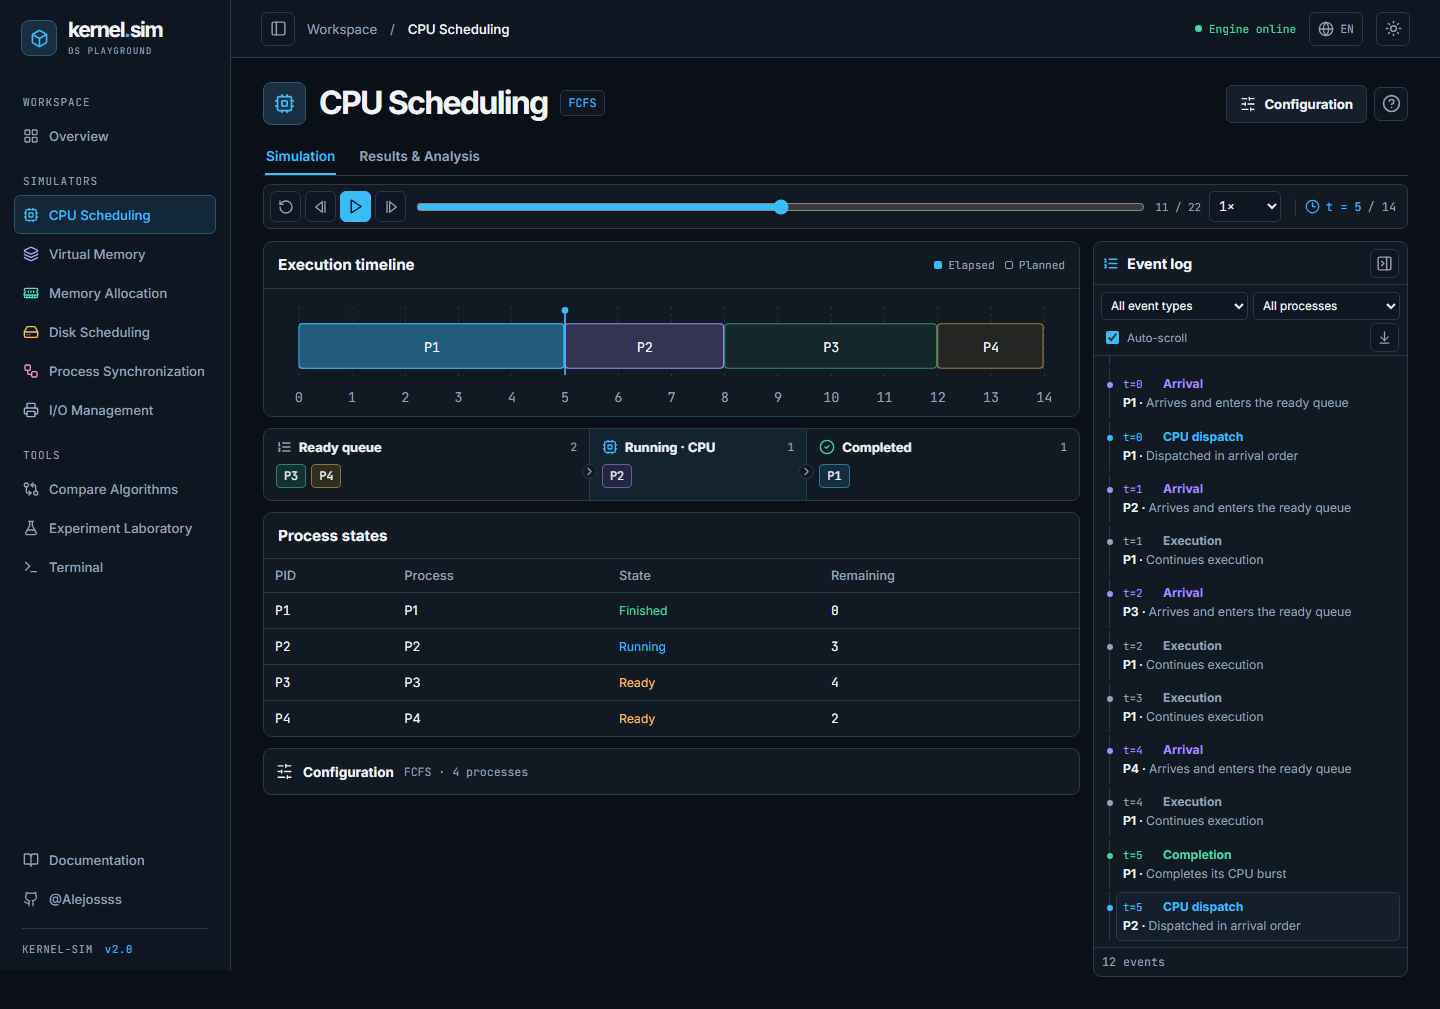
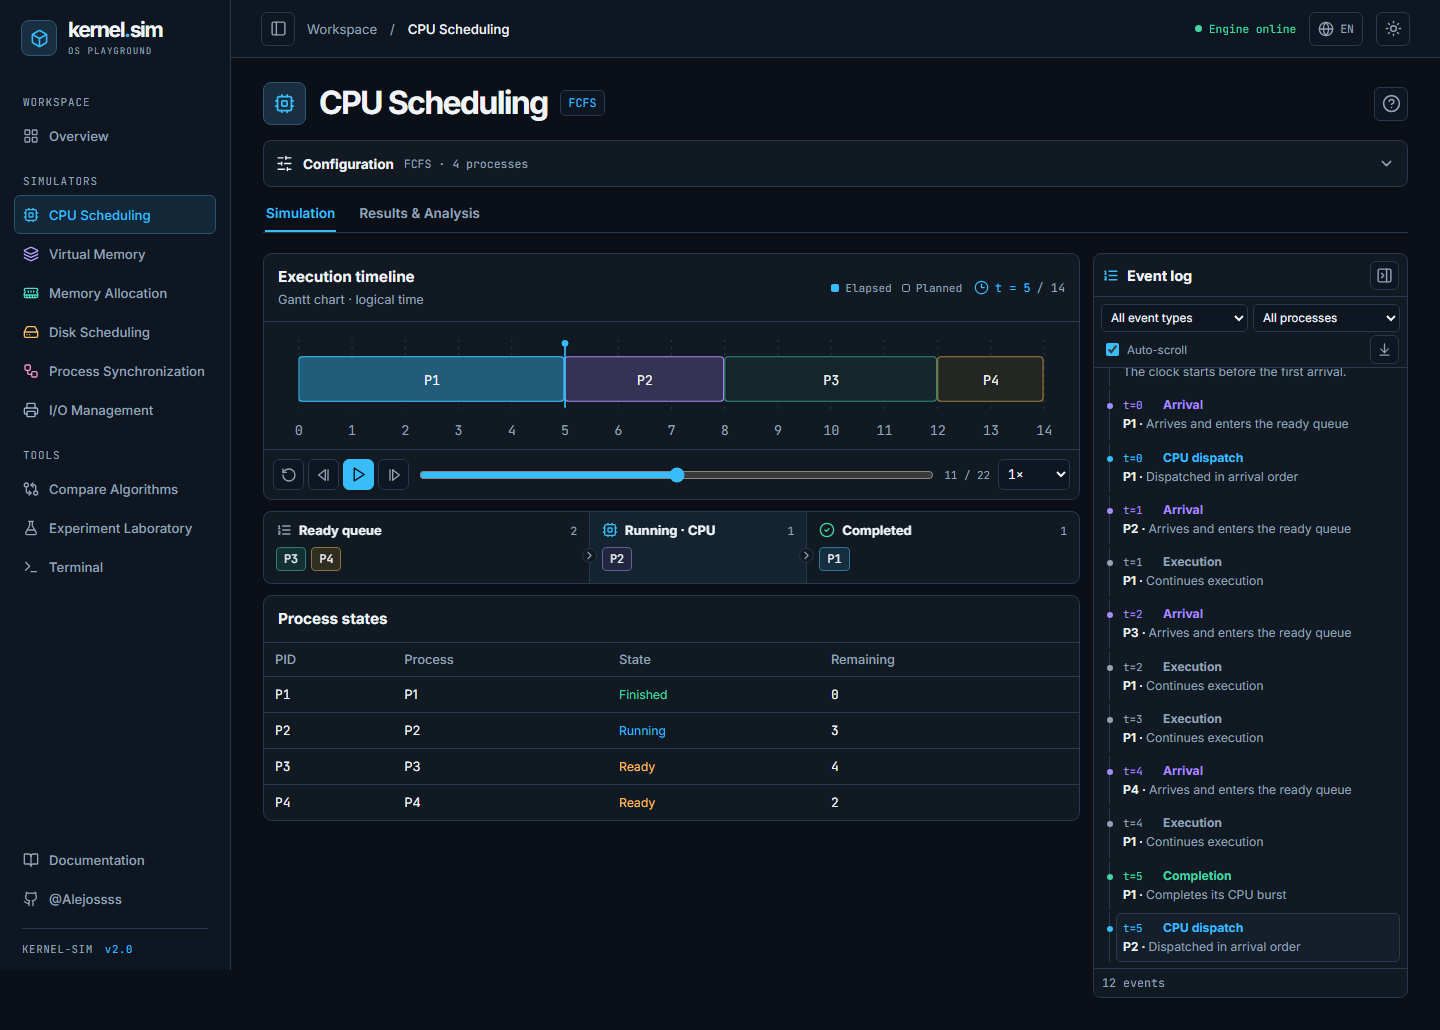
Adjust CPU configuration, playback layout and completion notice

diff --git a/web/src/views/Cpu.vue b/web/src/views/Cpu.vue
@@ -2,7 +2,7 @@
 import { computed, nextTick, ref, watch } from 'vue'
 import { useRoute, useRouter } from 'vue-router'
 import { storeToRefs } from 'pinia'
-import { Activity, CircleHelp, Clock3, Cpu, SlidersHorizontal } from 'lucide-vue-next'
+import { Activity, ChevronDown, CircleHelp, Clock3, Cpu, SlidersHorizontal } from 'lucide-vue-next'
 import Panel from '../components/Panel.vue'
 import Gantt from '../components/Gantt.vue'
 import PlaybackBar from '../components/PlaybackBar.vue'
@@ -27,6 +27,7 @@ const logCompact = ref(false)
 const tour = ref<InstanceType<typeof GuidedTour>>()
 const results = computed(() => route.query.view === 'results')
 const configuration = ref<HTMLElement>()
+const configurationToggle = ref<HTMLButtonElement>()
 const tablist = ref<HTMLElement>()
 const noProcesses: number[] = []
 const colors = ['#38bdf8','#a78bfa','#34d399','#fbbf24','#f472b6','#fb923c']
@@ -36,6 +37,7 @@ const completed = computed(() => snapshot.value?.processes.filter(p => p.status 
 const finished = computed(() => Boolean(trace.value && cursor.value === last.value))
 const animationDuration = computed(() => reduced.value ? 0 : playing.value ? Math.min(400,380/speed.value) : 180)
 const algorithm = computed(() => workload.value.policy === 4 ? t('Priority','Prioridad') : policies[workload.value.policy])
+const draftAlgorithm = computed(() => input.value.policy === 4 ? t('Priority','Prioridad') : policies[input.value.policy])
 const rows = computed(() => workload.value.jobs.map(job => ({
   job,
   state:snapshot.value?.processes.find(p => p.pid === job.pid),
@@ -83,16 +85,18 @@ async function onTabKey(event: KeyboardEvent) {
 }
 function closeEditor() {
   if (configuration.value?.contains(document.activeElement)) {
-    document.getElementById('configuration-toggle')?.focus({ preventScroll:true })
+    configurationToggle.value?.focus({ preventScroll:true })
   }
   editor.value = false
 }
-async function toggleEditor() {
-  if (editor.value && !results.value) return closeEditor()
-  await setView('simulation')
-  editor.value = true
+function toggleEditor() {
+  if (editor.value) closeEditor()
+  else editor.value = true
+}
+async function viewCompletedTrace() {
+  await setView('results')
   await nextTick()
-  configuration.value?.scrollIntoView({ block:'start' })
+  tablist.value?.querySelector<HTMLElement>('#results-tab')?.focus()
 }
 const steps: TourStep[] = [
   {
@@ -114,6 +118,7 @@ const steps: TourStep[] = [
   {
     target:'[data-tour="playback"]', title:() => t('Play, pause or step','Reproduce, pausa o avanza por pasos'),
     body:() => t('Play or step forward to inspect an event before continuing. The slider can jump to any event in the trace.','Reproduce o avanza un paso para inspeccionar un evento antes de continuar. El deslizador permite saltar a cualquier evento.'),
+    enter:async () => { if (results.value) await setView('simulation') },
     canAdvance:() => !trace.value || cursor.value > 0,
     action:{ label:() => playing.value ? t('Pause','Pausar') : t('Try playback','Probar reproducción'), run:toggle },
   },
@@ -145,23 +150,34 @@ async function startTour() {
 </script>
 
 <template>
-  <div class="page cpu-page refined-cpu">
+  <div class="page cpu-page refined-cpu" :class="{ 'showing-results':results }">
     <header class="cpu-titlebar" data-tour="title">
       <span class="module-icon"><Cpu :size="21" /></span>
       <div class="cpu-title"><h1>{{ t('CPU Scheduling','Planificación de CPU') }}</h1>
         <span class="policy-chip mono" :title="t(...descriptions[workload.policy])">{{ algorithm }}<template v-if="workload.policy===3"> · q={{ workload.quantum }}</template></span>
       </div>
       <div class="cpu-title-actions">
-        <button id="configuration-toggle" class="button" :aria-expanded="editor && !results" aria-controls="cpu-config" @click="toggleEditor"><SlidersHorizontal :size="16" />{{ t('Configuration','Configuración') }}<i v-if="dirty" class="draft-dot" /></button>
         <button class="icon-button" :aria-label="t('CPU help and tutorial','Ayuda y tutorial de CPU')" :title="t('CPU help and tutorial','Ayuda y tutorial de CPU')" @click="startTour"><CircleHelp :size="19" /></button>
       </div>
     </header>
+    <section v-show="!results" id="cpu-config" class="configuration-drawer" :class="{ 'configuration-open':editor }" ref="configuration">
+      <button ref="configurationToggle" id="configuration-toggle" type="button" class="configuration-summary" :aria-expanded="editor" aria-controls="configuration-fields" @click="toggleEditor">
+        <SlidersHorizontal :size="17" />
+        <strong>{{ t('Configuration','Configuración') }}</strong>
+        <span class="mono">{{ draftAlgorithm }}<template v-if="input.policy===3"> · q={{ input.quantum }}</template> · {{ input.jobs.length }} {{ t('processes','procesos') }}</span>
+        <span v-if="dirty" class="draft-label">{{ t('Unapplied changes','Cambios sin aplicar') }}</span>
+        <ChevronDown class="configuration-chevron" :size="17" aria-hidden="true" />
+      </button>
+      <div class="configuration-grid" id="configuration-fields" :inert="!editor">
+        <div class="configuration-inner"><WorkloadForm :color="color" @apply="applyWorkload" /></div>
+      </div>
+    </section>
     <div class="cpu-sticky">
       <div class="view-tabs" ref="tablist" role="tablist" :aria-label="t('CPU views','Vistas de CPU')" @keydown="onTabKey">
         <button id="simulation-tab" role="tab" :aria-selected="!results" :tabindex="results ? -1 : 0" aria-controls="simulation-view" @click="setView('simulation')">{{ t('Simulation','Simulación') }}</button>
         <button id="results-tab" data-tour="results" role="tab" :aria-selected="results" :tabindex="results ? 0 : -1" aria-controls="results-view" @click="setView('results')">{{ t('Results & Analysis','Resultados y análisis') }}</button>
       </div>
-      <div class="cpu-transport" data-tour="playback">
+      <div v-if="results" class="cpu-transport">
         <PlaybackBar v-model:speed="speed" :disabled="!trace" :last="last" :cursor="cursor" :playing="playing" @seek="seek" @toggle="toggle" />
         <span class="clock mono" :title="t('Logical time','Tiempo lógico')"><Clock3 :size="15" />t = {{ time }}<span class="muted"> / {{ trace?.duration ?? '—' }}</span></span>
       </div>
@@ -170,26 +186,20 @@ async function startTour() {
       <div v-show="!results" id="simulation-view" role="tabpanel" aria-labelledby="simulation-tab" class="simulation-layout" :class="{ 'log-compact':logCompact }">
         <div class="simulation-main">
           <div data-tour="gantt">
-            <Panel :title="t('Execution timeline','Línea de ejecución')">
-              <template #actions><span class="timeline-key"><i />{{ t('Elapsed','Transcurrido') }}<i />{{ t('Planned','Previsto') }}</span></template>
+            <Panel :title="t('Execution timeline','Línea de ejecución')" :caption="t('Gantt chart · logical time','Diagrama de Gantt · tiempo lógico')">
+              <template #actions><div class="timeline-heading-controls"><span class="timeline-key"><i />{{ t('Elapsed','Transcurrido') }}<i />{{ t('Planned','Previsto') }}</span><span class="clock mono"><Clock3 :size="15" />t = {{ time }}<span class="muted"> / {{ trace?.duration ?? '—' }}</span></span></div></template>
               <Gantt v-if="trace" :segments="trace.segments" :duration="trace.duration" :time="time" :visual-time="visualTime" :active="snapshot?.running ?? 0" :name="name" :color="color" @select="selectSegment" />
               <div v-else class="timeline-empty"><Activity :size="22" />{{ pending ? t('Generating trace…','Generando traza…') : t('Apply a workload to generate a trace.','Aplica una carga para generar una traza.') }}</div>
+              <div data-tour="playback">
+                <PlaybackBar v-model:speed="speed" :disabled="!trace" :last="last" :cursor="cursor" :playing="playing" @seek="seek" @toggle="toggle" />
+              </div>
             </Panel>
           </div>
           <CpuFlow :ready="snapshot?.ready ?? noProcesses" :running="snapshot?.running ?? 0" :completed="completed" :name="name" :color="color" :duration="animationDuration" />
-          <div v-if="finished" class="finish-banner"><strong>{{ t('Trace complete','Traza completada') }}</strong><button class="button primary" @click="setView('results')">{{ t('View results','Ver resultados') }}</button></div>
           <Panel :title="t('Process states','Estado de procesos')">
             <div class="table-wrap"><table><thead><tr><th>PID</th><th>{{ t('Process','Proceso') }}</th><th>{{ t('State','Estado') }}</th><th>{{ t('Remaining','Restante') }}</th></tr></thead>
               <tbody><tr v-for="{job,state} in rows" :key="job.pid"><td class="mono">P{{ job.pid }}</td><td>{{ job.name }}</td><td><span class="state" :data-state="state?.status">{{ status(state?.status) }}</span></td><td class="mono">{{ state?.remaining ?? '—' }}</td></tr></tbody></table></div>
           </Panel>
-          <section id="cpu-config" class="configuration-drawer" :class="{ 'configuration-open':editor }" ref="configuration">
-            <button class="configuration-summary" :aria-expanded="editor" aria-controls="configuration-fields" @click="toggleEditor">
-              <SlidersHorizontal :size="17" /><strong>{{ t('Configuration','Configuración') }}</strong><span class="mono">{{ algorithm }} · {{ workload.jobs.length }} {{ t('processes','procesos') }}</span><span v-if="dirty" class="draft-label">{{ t('Unapplied changes','Cambios sin aplicar') }}</span>
-            </button>
-            <div class="configuration-grid" id="configuration-fields" :inert="!editor">
-              <div class="configuration-inner"><WorkloadForm :color="color" @apply="applyWorkload" /></div>
-            </div>
-          </section>
         </div>
         <EventTimeline v-model:compact="logCompact" :events="trace?.events" :cursor="cursor" :jobs="workload.jobs" :name="name" :duration="animationDuration ? Math.min(animationDuration,200) : 0" @seek="seek" />
       </div>
@@ -199,6 +209,14 @@ async function startTour() {
         <CpuResults :trace="trace" :workload="applied" :finished="finished" :completed="completed" :compare="results && route.query.compare==='1'" :name="name" />
       </div>
     </Transition>
+    <Teleport to="body">
+      <Transition name="trace-toast">
+        <div v-if="finished && !results" class="finish-banner">
+          <strong role="status">{{ t('Trace complete','Traza completada') }}</strong>
+          <button class="button primary" @click="viewCompletedTrace">{{ t('View results','Ver resultados') }}</button>
+        </div>
+      </Transition>
+    </Teleport>
     <GuidedTour ref="tour" module="cpu" :steps="steps" />
   </div>
 </template>

diff --git a/web/src/workbench.css b/web/src/workbench.css
@@ -16,14 +16,14 @@
   .shell[data-nav=compact] .nav-label { font-size:0; height:13px; padding:0; border-top:1px solid var(--line); margin-top:10px }
   .shell[data-nav=hidden] .sidebar { visibility:hidden; opacity:0; padding-inline:0; border:0 }
 }
-.refined-cpu { --sticky-height:99px; padding-top:24px }
+.refined-cpu { --sticky-height:53px; padding-top:24px }
+.refined-cpu.showing-results { --sticky-height:99px }
 .cpu-titlebar { display:flex; align-items:center; gap:13px; margin-bottom:15px }
 .cpu-titlebar .module-icon { width:43px; height:43px }
 .cpu-title { display:flex; flex-wrap:wrap; align-items:center; gap:9px 13px }
 .cpu-title h1 { font-size:clamp(1.35rem,3.5vw,2rem); letter-spacing:-.052em; line-height:1.15 }
 .policy-chip { font-size:.73rem; border:1px solid var(--line); border-radius:5px; padding:4px 7px; color:var(--accent); background:var(--input); white-space:nowrap }
 .cpu-title-actions { display:flex; gap:7px; align-items:center; margin-left:auto }
-.draft-dot { width:6px; height:6px; background:#d97706; border-radius:50% }
 .cpu-sticky { position:sticky; top:0; z-index:4; background:var(--bg); padding:0 0 9px }
 .view-tabs { display:flex; gap:22px; border-bottom:1px solid var(--line); padding:0 2px; margin-bottom:8px }
 .view-tabs button { background:none; border:0; border-bottom:2px solid transparent; color:var(--muted); padding:8px 1px 9px; font-weight:600; font-size:.85rem }
@@ -34,6 +34,7 @@
 .simulation-layout { display:grid; grid-template-columns:minmax(0,1fr) clamp(250px,24vw,315px); gap:13px; padding-top:3px; align-items:start; transition:grid-template-columns 250ms ease }
 .simulation-layout.log-compact { grid-template-columns:minmax(0,1fr) 46px }
 .simulation-main,.results-content { display:grid; grid-template-columns:minmax(0,1fr); min-width:0; gap:11px }
+.timeline-heading-controls { display:flex; align-items:center; justify-content:flex-end; gap:12px; flex-wrap:wrap }
 .timeline-key { display:flex; align-items:center; gap:6px; color:var(--muted); font:.69rem var(--mono) }
 .timeline-key i { width:8px; height:8px; background:var(--accent); border-radius:2px }
 .timeline-key i:nth-of-type(2) { background:var(--input); border:1px solid var(--muted); margin-left:4px }
@@ -53,7 +54,15 @@
 .flow-arrow { position:absolute; top:50%; right:-8px; z-index:1; background:var(--panel); color:var(--muted); border:1px solid var(--line); border-radius:50% }
 .refined-cpu .state { transition:color 200ms ease }
 .finish-banner,.analysis-status { display:flex; align-items:center; gap:12px; min-width:0; background:color-mix(in srgb,var(--accent) 8%,var(--panel)); border:1px solid color-mix(in srgb,var(--accent) 32%,var(--line)); border-radius:7px; padding:9px 12px; font-size:.85rem }
-.finish-banner { justify-content:space-between }
+.finish-banner {
+  position:fixed; z-index:5; right:14px; bottom:max(14px,env(safe-area-inset-bottom));
+  width:max-content; max-width:calc(100% - 24px);
+  background:var(--surface); box-shadow:0 8px 24px #0004;
+}
+.finish-banner .button { flex:none }
+.trace-toast-enter-active,.trace-toast-leave-active { transition:opacity 200ms ease,transform 200ms ease }
+.trace-toast-enter-from,.trace-toast-leave-to { opacity:0; transform:translateY(10px) }
+.trace-toast-leave-active { pointer-events:none }
 .finish-banner strong,.analysis-status.complete strong { color:var(--green) }
 .analysis-status > span { margin-left:auto; white-space:nowrap; color:var(--muted) }
 .analysis-status p,.analysis-note { color:var(--muted); margin-top:3px; line-height:1.55; font-size:.84rem }
@@ -67,11 +76,13 @@
 .comparison-track { height:15px; border-radius:4px; background:var(--input); border:1px solid var(--line); overflow:hidden }
 .comparison-track i { height:100%; display:block; background:color-mix(in srgb,var(--accent) 50%,var(--surface)); transition:width 200ms ease }
 .comparison-track i.selected { background:var(--accent) }
-.configuration-drawer { border:1px solid var(--line); border-radius:8px; background:var(--panel) }
+.configuration-drawer { margin-bottom:10px; border:1px solid var(--line); border-radius:8px; background:var(--panel) }
 .configuration-summary { width:100%; min-height:45px; display:flex; align-items:center; flex-wrap:wrap; gap:7px 10px; text-align:left; background:none; color:var(--text); border:0; border-radius:8px; padding:8px 12px; font-size:.84rem }
 .configuration-summary:hover { color:var(--accent) }
 .configuration-summary .mono { color:var(--muted); font-size:.72rem }
-.draft-label { margin-left:auto; color:var(--accent); font-size:.72rem }
+.draft-label { color:var(--accent); font-size:.72rem }
+.configuration-chevron { margin-left:auto; color:var(--muted); transition:transform 250ms ease }
+.configuration-open .configuration-chevron { transform:rotate(180deg) }
 .configuration-grid { display:grid; grid-template-rows:0fr; opacity:0; transition:grid-template-rows 250ms ease,opacity 200ms ease }
 .configuration-open .configuration-grid { grid-template-rows:1fr; opacity:1 }
 .configuration-inner { min-height:0; overflow:hidden }
@@ -133,6 +144,7 @@
   .event-heading { scroll-margin-top:calc(var(--sticky-height) + 10px) }
   .event-timeline.compact .event-heading { justify-content:flex-end }
   .event-scroll { height:310px }
+  .finish-banner { inset-inline:0; margin-inline:auto }
 }
 @media (max-width:460px) {
   .refined-cpu { padding-top:14px }
@@ -141,13 +153,13 @@
   .cpu-titlebar .module-icon { display:none }
   .cpu-title { column-gap:8px }
   .cpu-title-actions { gap:4px }
-  .cpu-title-actions .button { gap:5px; padding-inline:6px; font-size:.73rem }
   .cpu-title-actions .icon-button { width:31px; min-width:31px }
   .cpu-transport { gap:3px; padding-right:5px }
   .cpu-transport .clock { gap:3px; padding-left:4px; font-size:.66rem }
   .cpu-transport .clock svg { display:none }
   .cpu-transport .playback .icon-button { min-width:27px; width:27px }
   .cpu-transport .playback { gap:4px }
+  .timeline-heading-controls { gap:4px; flex-direction:column-reverse; align-items:flex-end }
   .flow-arrow { display:none }
   .flow-lane { padding:7px 6px }
   .flow-lane header { gap:4px; flex-wrap:wrap }
@@ -155,5 +167,5 @@
   .flow-lane header svg { width:13px }
 }
 @media (prefers-reduced-motion:reduce) {
-  .shell,.sidebar,.simulation-layout,.configuration-grid,.event-enter-active,.view-enter-active,.comparison-track i,.refined-cpu .state,.tour-spotlight { transition:none!important }
+  .shell,.sidebar,.simulation-layout,.configuration-grid,.event-enter-active,.view-enter-active,.comparison-track i,.refined-cpu .state,.tour-spotlight,.configuration-chevron,.trace-toast-enter-active,.trace-toast-leave-active { transition:none!important }
 }

diff --git a/web/e2e/workbench.spec.ts b/web/e2e/workbench.spec.ts
@@ -15,6 +15,8 @@ test('plays the real worker trace, filters events and keeps draft edits separate
   await page.getByRole('link', { name:'Open CPU simulator' }).click()
   await expect(page.getByRole('button', { name:'P2, 5–8' })).toBeVisible()
   await expect(page.getByText('Average waiting time')).toBeHidden()
+  await expect(page.locator('[data-tour=gantt] [data-tour=playback]')).toBeVisible()
+  expect(await page.locator('#cpu-config').evaluate(el => el.previousElementSibling?.matches('.cpu-titlebar'))).toBe(true)
   await page.getByRole('button', { name:'P2, 5–8' }).click()
   await expect(page.locator('.clock')).toContainText('t = 5')
   await expect(page.locator('.lane-1')).toContainText('P2')
@@ -41,6 +43,8 @@ test('plays the real worker trace, filters events and keeps draft edits separate
 
   await page.locator('#configuration-toggle').click()
   await page.getByRole('combobox', { name:'Algorithm', exact:true }).selectOption('3')
+  await expect(page.locator('#configuration-toggle')).toHaveAttribute('aria-expanded','true')
+  await expect(page.locator('#configuration-toggle')).toContainText('Round Robin · q=2')
   await expect(page.getByText(/Changes require a new run/)).toBeVisible()
   await expect(page.locator('.policy-chip')).toHaveText('FCFS')
   await page.getByRole('button', { name:'Apply and run' }).click()
@@ -54,6 +58,8 @@ test('plays the real worker trace, filters events and keeps draft edits separate
   await page.getByRole('slider', { name:'Seek event' }).focus()
   await page.keyboard.press('End')
   await expect(page.getByRole('tab', { name:'Simulation',exact:true })).toHaveAttribute('aria-selected','true')
+  await expect(page.locator('.finish-banner')).toHaveCSS('position','fixed')
+  await expect(page.locator('#simulation-view .finish-banner')).toHaveCount(0)
   await page.getByRole('button', { name:'View results' }).click()
   await expect(page.getByText('Final results')).toBeVisible()
   await expect(page.locator('.results-metrics .metric').nth(0)).toContainText('6.75')
@@ -64,6 +70,7 @@ test('plays the real worker trace, filters events and keeps draft edits separate
   await page.getByRole('combobox', { name:'Chart metric' }).selectOption('turnaround')
   await expect(page.locator('.comparison-row').first()).toContainText('8.00')
 
+  await page.getByRole('tab', { name:'Simulation',exact:true }).click()
   await page.locator('#configuration-toggle').click()
   await page.getByRole('spinbutton', { name:'PID', exact:true }).nth(1).fill('1')
   await page.getByRole('button', { name:'Apply and run' }).click()

diff --git a/docs/web-cpu.md b/docs/web-cpu.md
@@ -64,9 +64,9 @@ Cada evento tiene ID ascendente, módulo, instante lógico, código de explicaci
 ## Uso de CPU Scheduling
 
 - La barra lateral ofrece los modos expandido, compacto y oculto. El selector permanece en la barra superior y guarda la elección. En móvil, la navegación se abre como un panel lateral.
-- Simulación muestra el Gantt, el reloj lógico, la cola, la CPU, los procesos terminados y la tabla de estados. Los controles de reproducción permanecen visibles al desplazarse.
-- Configuración despliega el editor inferior. Aplicar y ejecutar genera una traza nueva. Los errores mantienen el editor abierto y conservan la última traza válida.
-- Resultados y análisis muestra los promedios de procesos terminados durante la reproducción y las métricas completas al llegar al último evento. El comparador ejecuta las cinco políticas en el motor sobre la carga aplicada.
+- Simulación muestra el Gantt, el reloj lógico, la cola, la CPU, los procesos terminados y la tabla de estados. Los controles de reproducción están al pie del Gantt.
+- El encabezado de Configuración despliega el editor bajo el título de CPU Scheduling. Aplicar y ejecutar genera una traza nueva. Los errores mantienen el editor abierto y conservan la última traza válida.
+- Resultados y análisis muestra los promedios de procesos terminados durante la reproducción y las métricas completas al llegar al último evento. El aviso inferior abre los resultados y no desplaza el contenido. El comparador ejecuta las cinco políticas en el motor sobre la carga aplicada.
 - El tutorial de CPU se inicia en la primera visita. El botón de ayuda permite reiniciarlo. El componente de recorrido admite pasos anclados a elementos de cualquier módulo.
 - El tiempo visual interpola la posición del indicador del Gantt entre eventos. Las colas, los estados y el registro se actualizan desde snapshots discretos. Pausar vuelve al instante lógico comprometido y el ajuste de movimiento reducido desactiva las transiciones.
 
